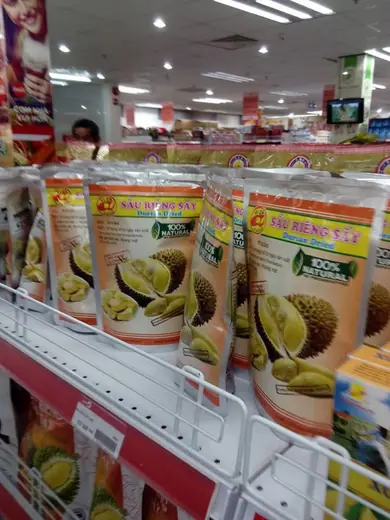
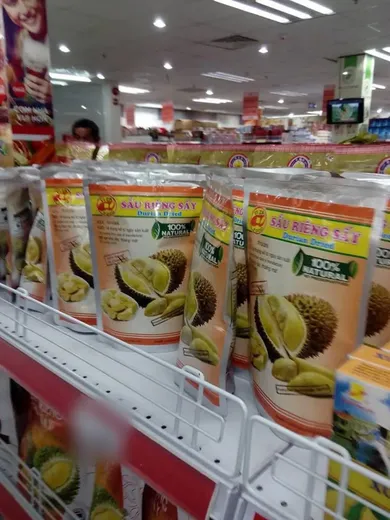
Sản phẩm mới: Sầu riêng sấy Viza Food 100g (MQ-GSR-100-VZ, 110.000đ) trên cửa hàng + danh mục; ảnh túi cắt từ ke-10, ảnh kệ ke-10/ke-11 che tag giá; SW v21

Changed region(s): [[0.1538, 0.7385, 0.3385, 0.8923]]

diff --git a/js/data.js b/js/data.js
@@ -35,6 +35,7 @@ MQ.LINES = {
   fh:      {name:'Fresh & Healthy', short:'F&H', maker:'viza'},
   cheers:  {name:'Cheers+', maker:'viza'},
   kita:    {name:'KITA', maker:'viza'},
+  vizafood:{name:'Viza Food', maker:'viza'},
   yummy:   {name:'Yummy', maker:'viza'},
   vizabox: {name:'Viza Food · hộp giấy', short:'Hộp giấy', maker:'viza'},
   psdd:    {name:'Premium Shrinking Dried Durian', short:'Premium Durian', maker:'viza'},
@@ -108,6 +109,11 @@ MQ.PRODUCTS = [
   taste:{ngot:5,chua:0,deo:0,gion:4},
   short:'Sầu riêng sấy giòn dòng KITA, túi 100g — béo, thơm, giá dễ chịu để ăn thử hay chia nhau.',
   long:'Sầu riêng chín tách múi, sấy giòn, giữ vị béo ngọt tự nhiên. Túi 100g dòng KITA của Viza Food, bán nguyên bao bì gốc.'},
+ {id:'sau-rieng-say-viza-food',name:'Sầu riêng sấy Viza Food',cat:'gion',fruit:'saurieng',flavour:'nguyen',maker:'viza',rank:7,badge:'Mới',
+  variants:[V('MQ-GSR-100-VZ','100g',100,'vizafood',110000,'vz/vz-vz-srs-100')],
+  taste:{ngot:5,chua:0,deo:0,gion:4},
+  short:'Sầu riêng sấy túi cam – vàng “Durian Dried” nhãn riêng Viza Food, 100g — béo, thơm, cùng giá túi 100g GoodGood.',
+  long:'Sầu riêng chín tách múi rồi sấy, giữ vị béo ngọt và màu vàng của cơm sầu riêng. Túi 100g nhãn riêng Viza Food (in “Sầu riêng sấy – Durian Dried · 100% Natural”), bán nguyên bao bì gốc. Ảnh bao bì cắt từ ảnh chụp túi thật trên kệ siêu thị.'},
  {id:'sau-rieng-say-thang-hoa-yummy',name:'Sầu riêng sấy thăng hoa Yummy',cat:'thanghoa',fruit:'saurieng',flavour:'nguyen',maker:'viza',rank:6,
   variants:[V('MQ-THSR-105-YM','105g',105,'yummy',199000,'tsr105')],
   taste:{ngot:5,chua:0,deo:0,gion:5},
@@ -668,7 +674,7 @@ MQ.PRODUCTS = [
    ke-06 F&H xoài sấy dẻo · F&H xoài muối ớt · F&H mít sấy
    ke-07, ke-08 F&H xoài sấy dẻo túi trắng
    ke-09 GoodGood sầu riêng sấy · F&H mít sấy (+ bánh đậu xanh nhãn khác)
-   ke-10, ke-11 túi sầu riêng Viza Food đời cũ — không trùng túi nào đang bán nên chưa gắn.
+   ke-10, ke-11 túi cam – vàng "Sầu riêng sấy – Durian Dried" nhãn riêng Viza Food 100g = sản phẩm sau-rieng-say-viza-food (ảnh chính cắt từ ke-10; đã che tag giá).
    ke-12 túi thanh long sấy Viza Food "Dragon Fruit Dried" — cùng dòng gói nhỏ 80–100g, chủ shop xác nhận là thanh long sấy dẻo của shop.
    Ảnh chủ shop gửi 01/11/2026 (đã che giá trên tag/sticker):
    ke-13 cận cảnh F&H xoài muối ớt túi trắng đáy đỏ (cùng mẫu GoodGood 300g)
@@ -694,6 +700,7 @@ MQ.SHELF_FOR={
  'mit-say-gion':['viza-ke-20','viza-ke-19','viza-ke-15','viza-ke-17','viza-ke-01','viza-ke-09','viza-ke-06','viza-ke-03','viza-ke-18'],
  'sau-rieng-say-goodgood':['viza-ke-16','viza-ke-19','viza-ke-15','viza-ke-09','viza-ke-01'],
  'sau-rieng-say-kita':['viza-ke-20'],
+ 'sau-rieng-say-viza-food':['viza-ke-10','viza-ke-11'],
  'sau-rieng-say-thang-hoa-cheers':['viza-ke-02','viza-ke-03','viza-ke-18'],
  'sau-rieng-say-thang-hoa-yummy':['viza-ke-02','viza-ke-18'],
  'vz-ym-mt':['viza-ke-02','viza-ke-18'],
@@ -716,7 +723,9 @@ MQ.SHELF_BAGS={
  /* gói vuông trắng-vàng trên kệ = cùng sản phẩm thơm GoodGood 80g (chủ shop xác nhận 01/11/2026) */
  'thom-say-deo':{'*':['vz-gg-thom-80g']},
  /* túi "Dragon Fruit Dried" Viza Food trên ke-12 = cùng sản phẩm thanh long sấy dẻo 80g (chủ shop xác nhận 01/11/2026) */
- 'thanh-long-say-deo':{'*':['tl080']}};
+ 'thanh-long-say-deo':{'*':['tl080']},
+ /* túi cam – vàng "Sầu riêng sấy – Durian Dried" nhãn riêng Viza Food 100g trên ke-10, ke-11 (chủ shop xác nhận 01/11/2026) */
+ 'sau-rieng-say-viza-food':{'*':['vz-vz-srs-100']}};
 /* trang không có túi của chính nó trên ảnh kệ nào thì không có ảnh kệ (quy tắc chặt, chủ shop 01/11/2026) */
 MQ.GALLERY_AS_IS=[];
 MQ.REAL_PHOTOS={

diff --git a/server/selfcheck.js b/server/selfcheck.js
@@ -744,11 +744,16 @@ test('danh mục có nút thêm vào giỏ đúng mã cửa hàng; cửa hàng d
     assert.equal(buy['VZ-CH-XDT-200'].sku, 'MQ-DXC-200-CHA');
     assert.ok(buy['VZ-CH-XDT-200'].options.some((o) => o.sku === 'VZ-CH-CB3X-600'));
     assert.equal(buy['VZ-VZ-HDI-100'].sku, 'MQ-HDR-100-VZ');
+    // Sầu riêng sấy Viza Food 100g: cùng giá túi 100g GoodGood (cùng khối lượng = cùng giá), có trên cả cửa hàng và danh mục.
+    assert.equal(buy['VZ-VZ-SRS-100'].sku, 'MQ-GSR-100-VZ');
+    assert.equal(buy['VZ-VZ-SRS-100'].price, buy['VZ-GG-KF-100'].price);
+    assert.equal(data.products.find((p) => p.id === 'vz-vz-srs').brand, 'viza-food');
     // Chưa có giá hoặc chưa bán online thì không có nút mua.
     for (const code of ['VZ-GG-XDV-XX', 'VZ-FH-MITV-XX', 'VZ-FH-XDMO-XX', 'MQZ-DDY', 'VZ-GG-CARI-100']) assert.equal(buy[code], undefined, code);
     for (const p of data.products) for (const v of p.variants) if (v.price == null) assert.equal(buy[v.code], undefined, v.code);
 
     const shop = await (await fetch(base + '/cua-hang')).text();
+    assert.match(shop, /sau-rieng-say-viza-food/);
     // Bố cục cân đối: mỗi cách sấy một lưới liền, có khối Nổi bật và 3 mức ưu đãi; món ẩn bằng cờ hide trong data.js không hiện.
     assert.match(shop, /class="feat"/);
     assert.match(shop, /class="tiers"/);
@@ -777,7 +782,7 @@ test('danh mục có nút thêm vào giỏ đúng mã cửa hàng; cửa hàng d
     const css = await (await fetch(base + '/static/css/shop.css')).text();
     assert.match(css, /\.card__img \{[^}]*aspect-ratio: 4 \/ 5/);
     const sw = await (await fetch(base + '/sw.js')).text();
-    assert.match(sw, /mocqua-shell-v20/);
+    assert.match(sw, /mocqua-shell-v21/);
     // Combo Premium 3 vị: ảnh đầu là 3 túi đứng cạnh nhau, rồi từng túi; không còn ảnh kệ Cheers+ (viza-ke-02).
     const cb3 = await (await fetch(base + '/san-pham/vz-ps-cb3')).text();
     assert.match(cb3, /id="pdp-main" class="is-45" src="\/assets\/products\/vz\/vz-ps-cb3-3tui\.webp"/);
@@ -843,6 +848,10 @@ test('danh mục có nút thêm vào giỏ đúng mã cửa hàng; cửa hàng d
       const tl = await (await fetch(base + '/san-pham/thanh-long-say-deo')).text();
       assert.match(tl, /id="pdp-main" src="\/assets\/products\/tl080/);
       assert.equal(shelvesFor('thanh-long-say-deo', 'MQ-DTL-080-GG'), 'viza-ke-12');
+      // Sầu riêng sấy nhãn riêng Viza Food 100g (túi cam – vàng): ảnh túi cắt từ ke-10 trước, rồi ke-10, ke-11 "Trên kệ".
+      const vzsr = await (await fetch(base + '/san-pham/sau-rieng-say-viza-food')).text();
+      assert.match(vzsr, /id="pdp-main"[^>]* src="\/assets\/products\/vz\/vz-vz-srs-100-45\.jpg"/);
+      assert.equal(shelvesFor('sau-rieng-say-viza-food', 'MQ-GSR-100-VZ'), 'viza-ke-10,viza-ke-11');
       const xd = await (await fetch(base + '/san-pham/xoai-say-deo')).text();
       assert.match(xd, /"fit45":\["\/assets\/shelf\/viza-ke-20\.webp"/);
     }

diff --git a/server/catalog.js b/server/catalog.js
@@ -4,7 +4,7 @@ import vm from 'node:vm';
 import { ROOT } from './paths.js';
 import { getOverrides, getSettings } from './db.js';
 
-const BRAND_ORDER = ['mq', 'fh', 'goodgood', 'cheers', 'yummy', 'kita', 'vizabox', 'other'];
+const BRAND_ORDER = ['mq', 'fh', 'goodgood', 'cheers', 'yummy', 'kita', 'vizafood', 'vizabox', 'other'];
 
 const SHELF_CAPS = [
   ['viza-ke-01', 'Kệ trái cây sấy Viza Food: xoài, mít, sầu riêng'],

diff --git a/server/dm-buy.js b/server/dm-buy.js
@@ -27,6 +27,7 @@ export const CATALOG_TO_SHOP = {
   'VZ-FH-MIT-300': 'MQ-GMI-300-FH',
   'VZ-FH-SRTH-XX': 'MQ-THSR-080-FH',
   'VZ-KT-SRTH-100': 'MQ-GSR-100-KT',
+  'VZ-VZ-SRS-100': 'MQ-GSR-100-VZ',
   'VZ-VZ-HDI-100': 'MQ-HDR-100-VZ',
   'VZ-VZ-HMC-100': 'MQ-HMC-100-VZ',
   'VZ-VZ-HDC-100': 'MQ-HDC-100-VZ',

diff --git a/web/sw.js b/web/sw.js
@@ -1,4 +1,4 @@
-const CACHE = 'mocqua-shell-v20';
+const CACHE = 'mocqua-shell-v21';
 
 const SHELL = [
   '/',
